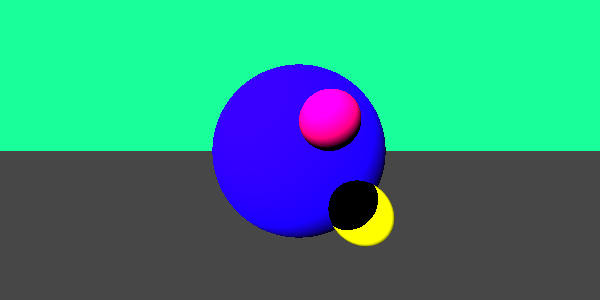
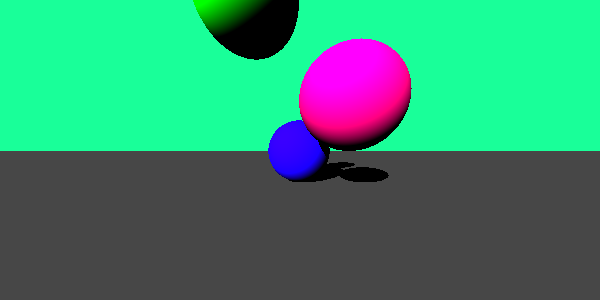
if i move the spheres around you can see the shadow on the plane

Changed region(s): [[0.33, 0.12, 0.69, 0.84], [0.3, 0.0, 0.51, 0.21]]

diff --git a/source/main.cpp b/source/main.cpp
@@ -81,7 +81,7 @@ main () {
 	sphere2.albedo = 0.9;
 
 	Material sphere3;
-	sphere3.diffuseColor = Vector3(1.0, 1.0, 0.0);
+	sphere3.diffuseColor = Vector3(0.0, 1.0, 0.0);
 	sphere3.albedo = 0.9;
 
 	Material plane;
@@ -89,10 +89,10 @@ main () {
 	plane.albedo = 0.9;
 
 	std::vector<SceneObject*> sceneObjects = {
-		new Plane(Transform(Vector3(0.0,3.0,-5.0)), Vector3(0.0, 0.75, 0.0), plane),
-		new Sphere(Transform(Vector3(0.0,0.0,-2.0)), sphere1, 1),
-		new Sphere(Transform(Vector3(1.0,-1.0,-5.0)), sphere2, 1),
-		new Sphere(Transform(Vector3(2.0,2.0,-5.0)), sphere3, 1)
+		new Plane(Transform(Vector3(0.0,1.0,-5.0)), Vector3(0.0, 0.75, 0.0), plane),
+		new Sphere(Transform(Vector3(0.0,0.0,-5.0)), sphere1, 1),
+		new Sphere(Transform(Vector3(1.0,-1.0,-3.0)), sphere2, 1),
+		new Sphere(Transform(Vector3(-1.0,-3.0,-3.0)), sphere3, 1)
 	};
 
 	Scene scene;
